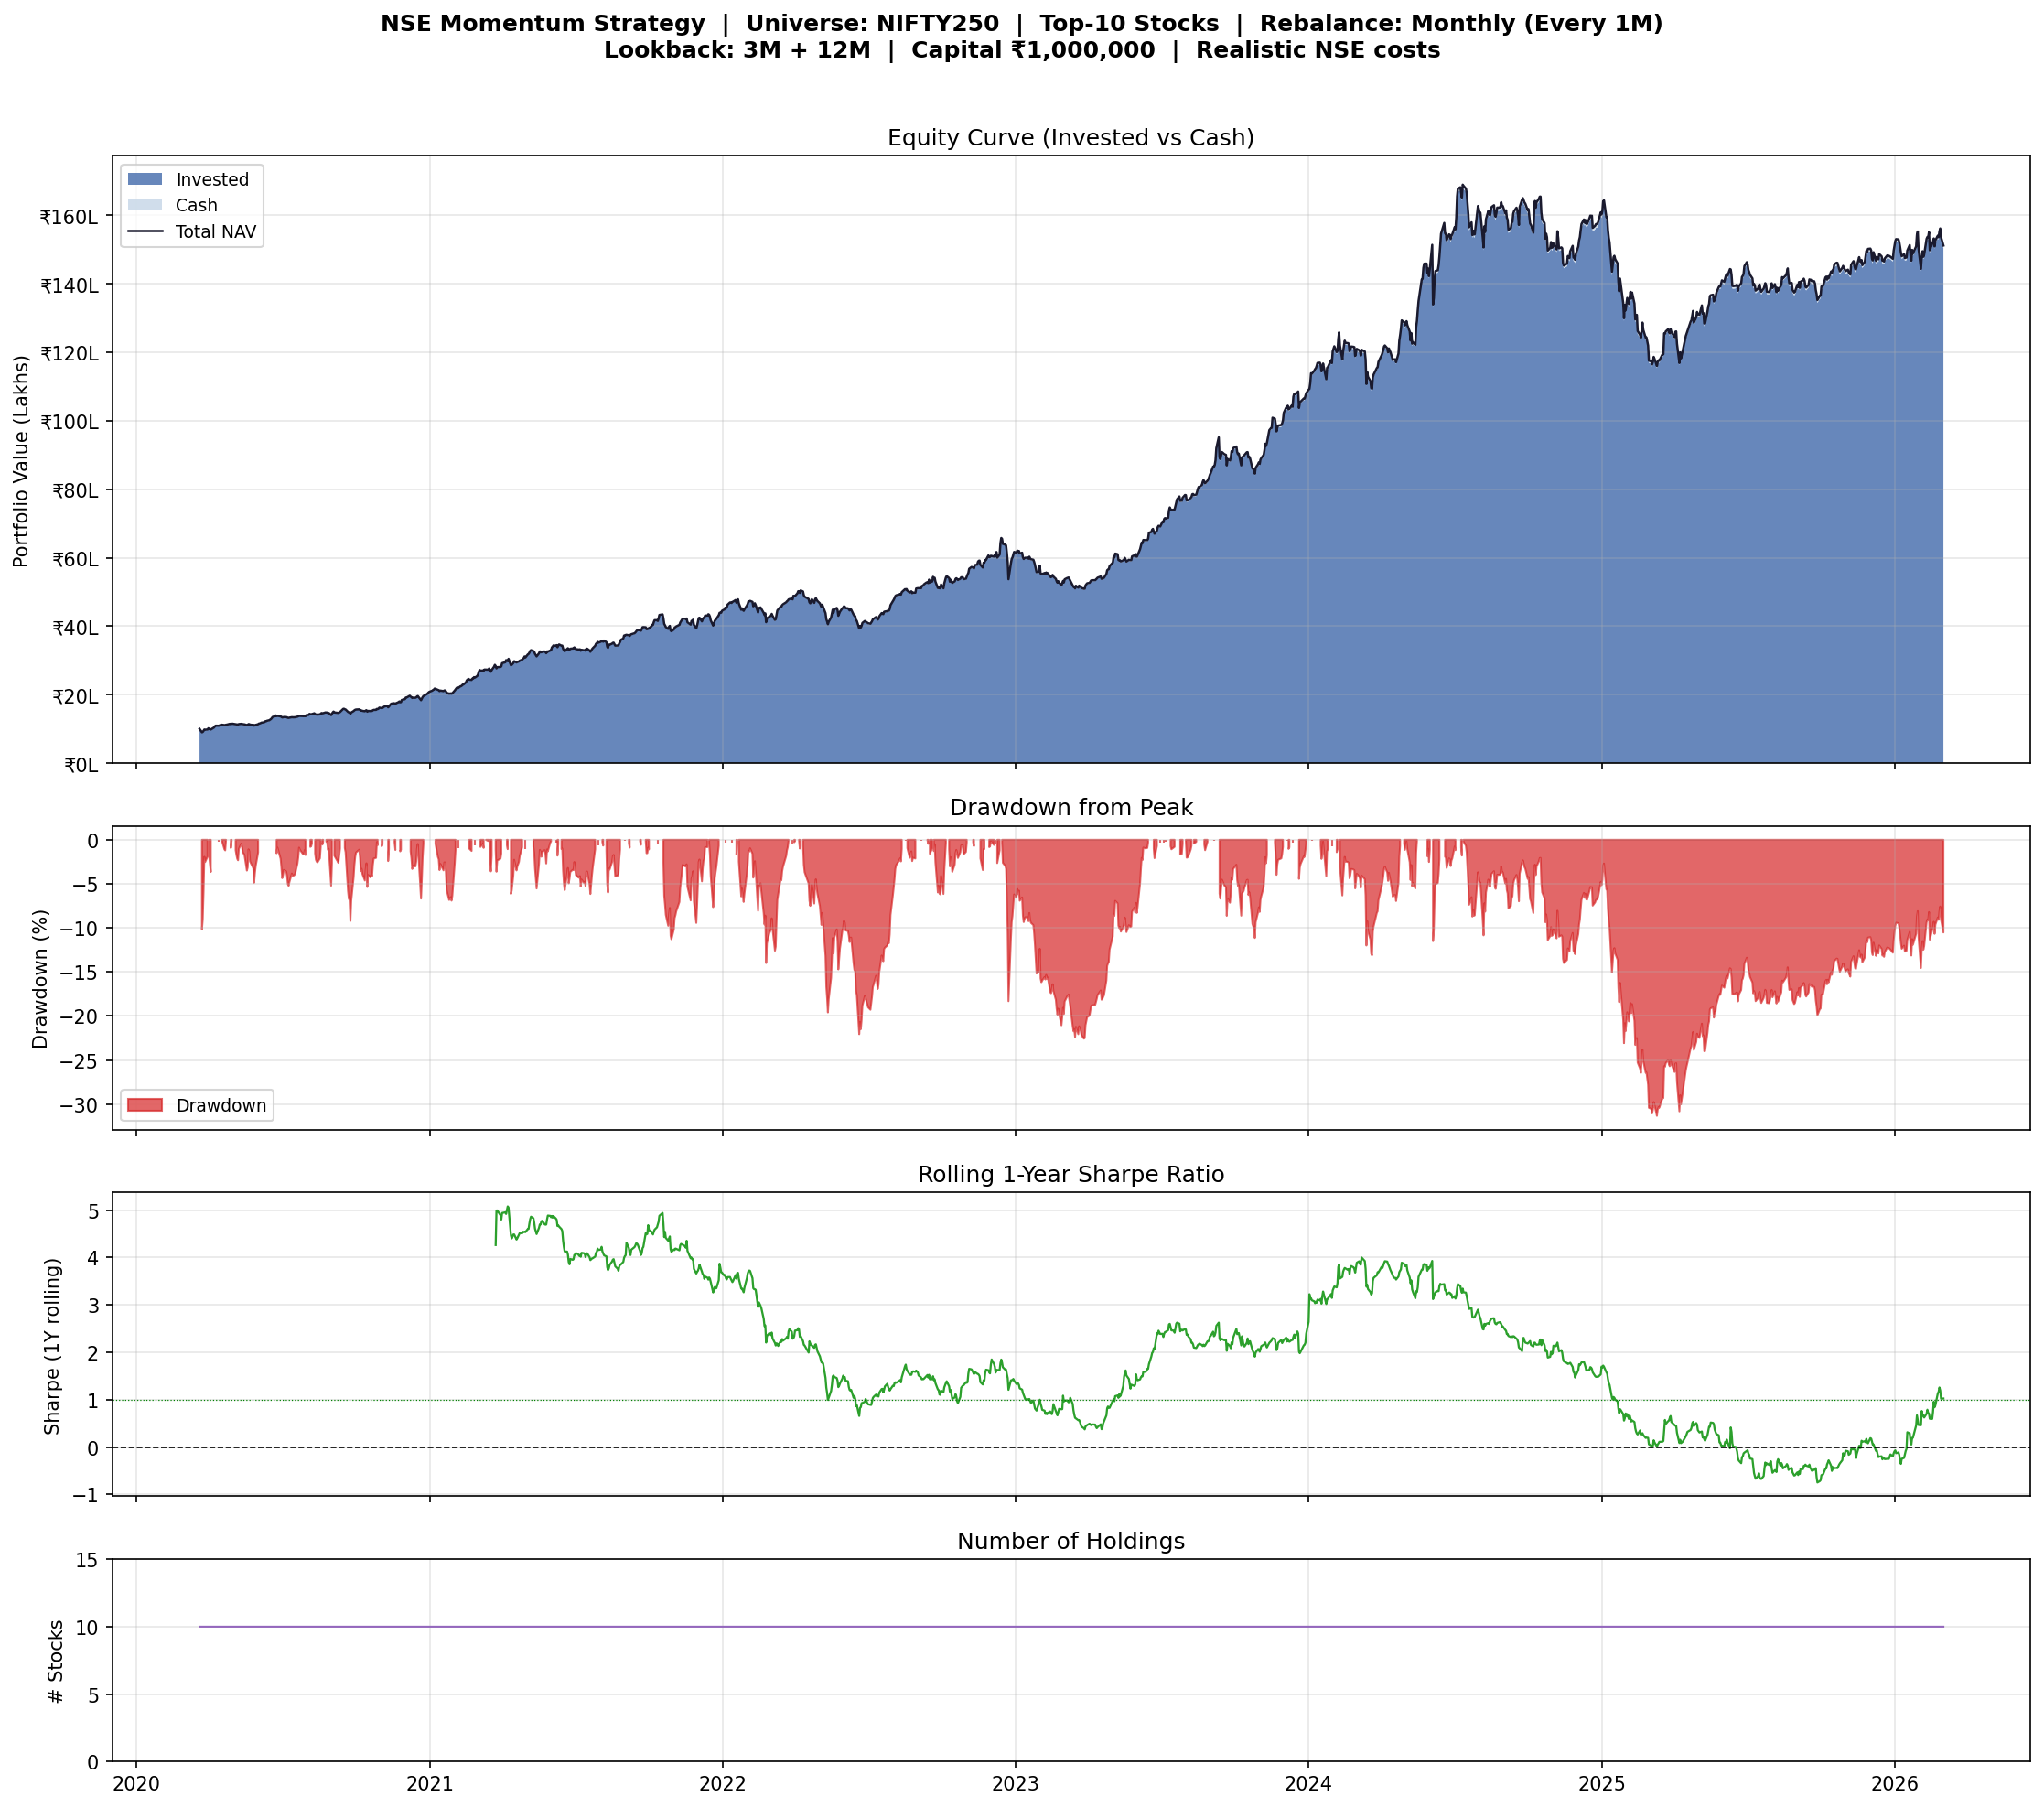
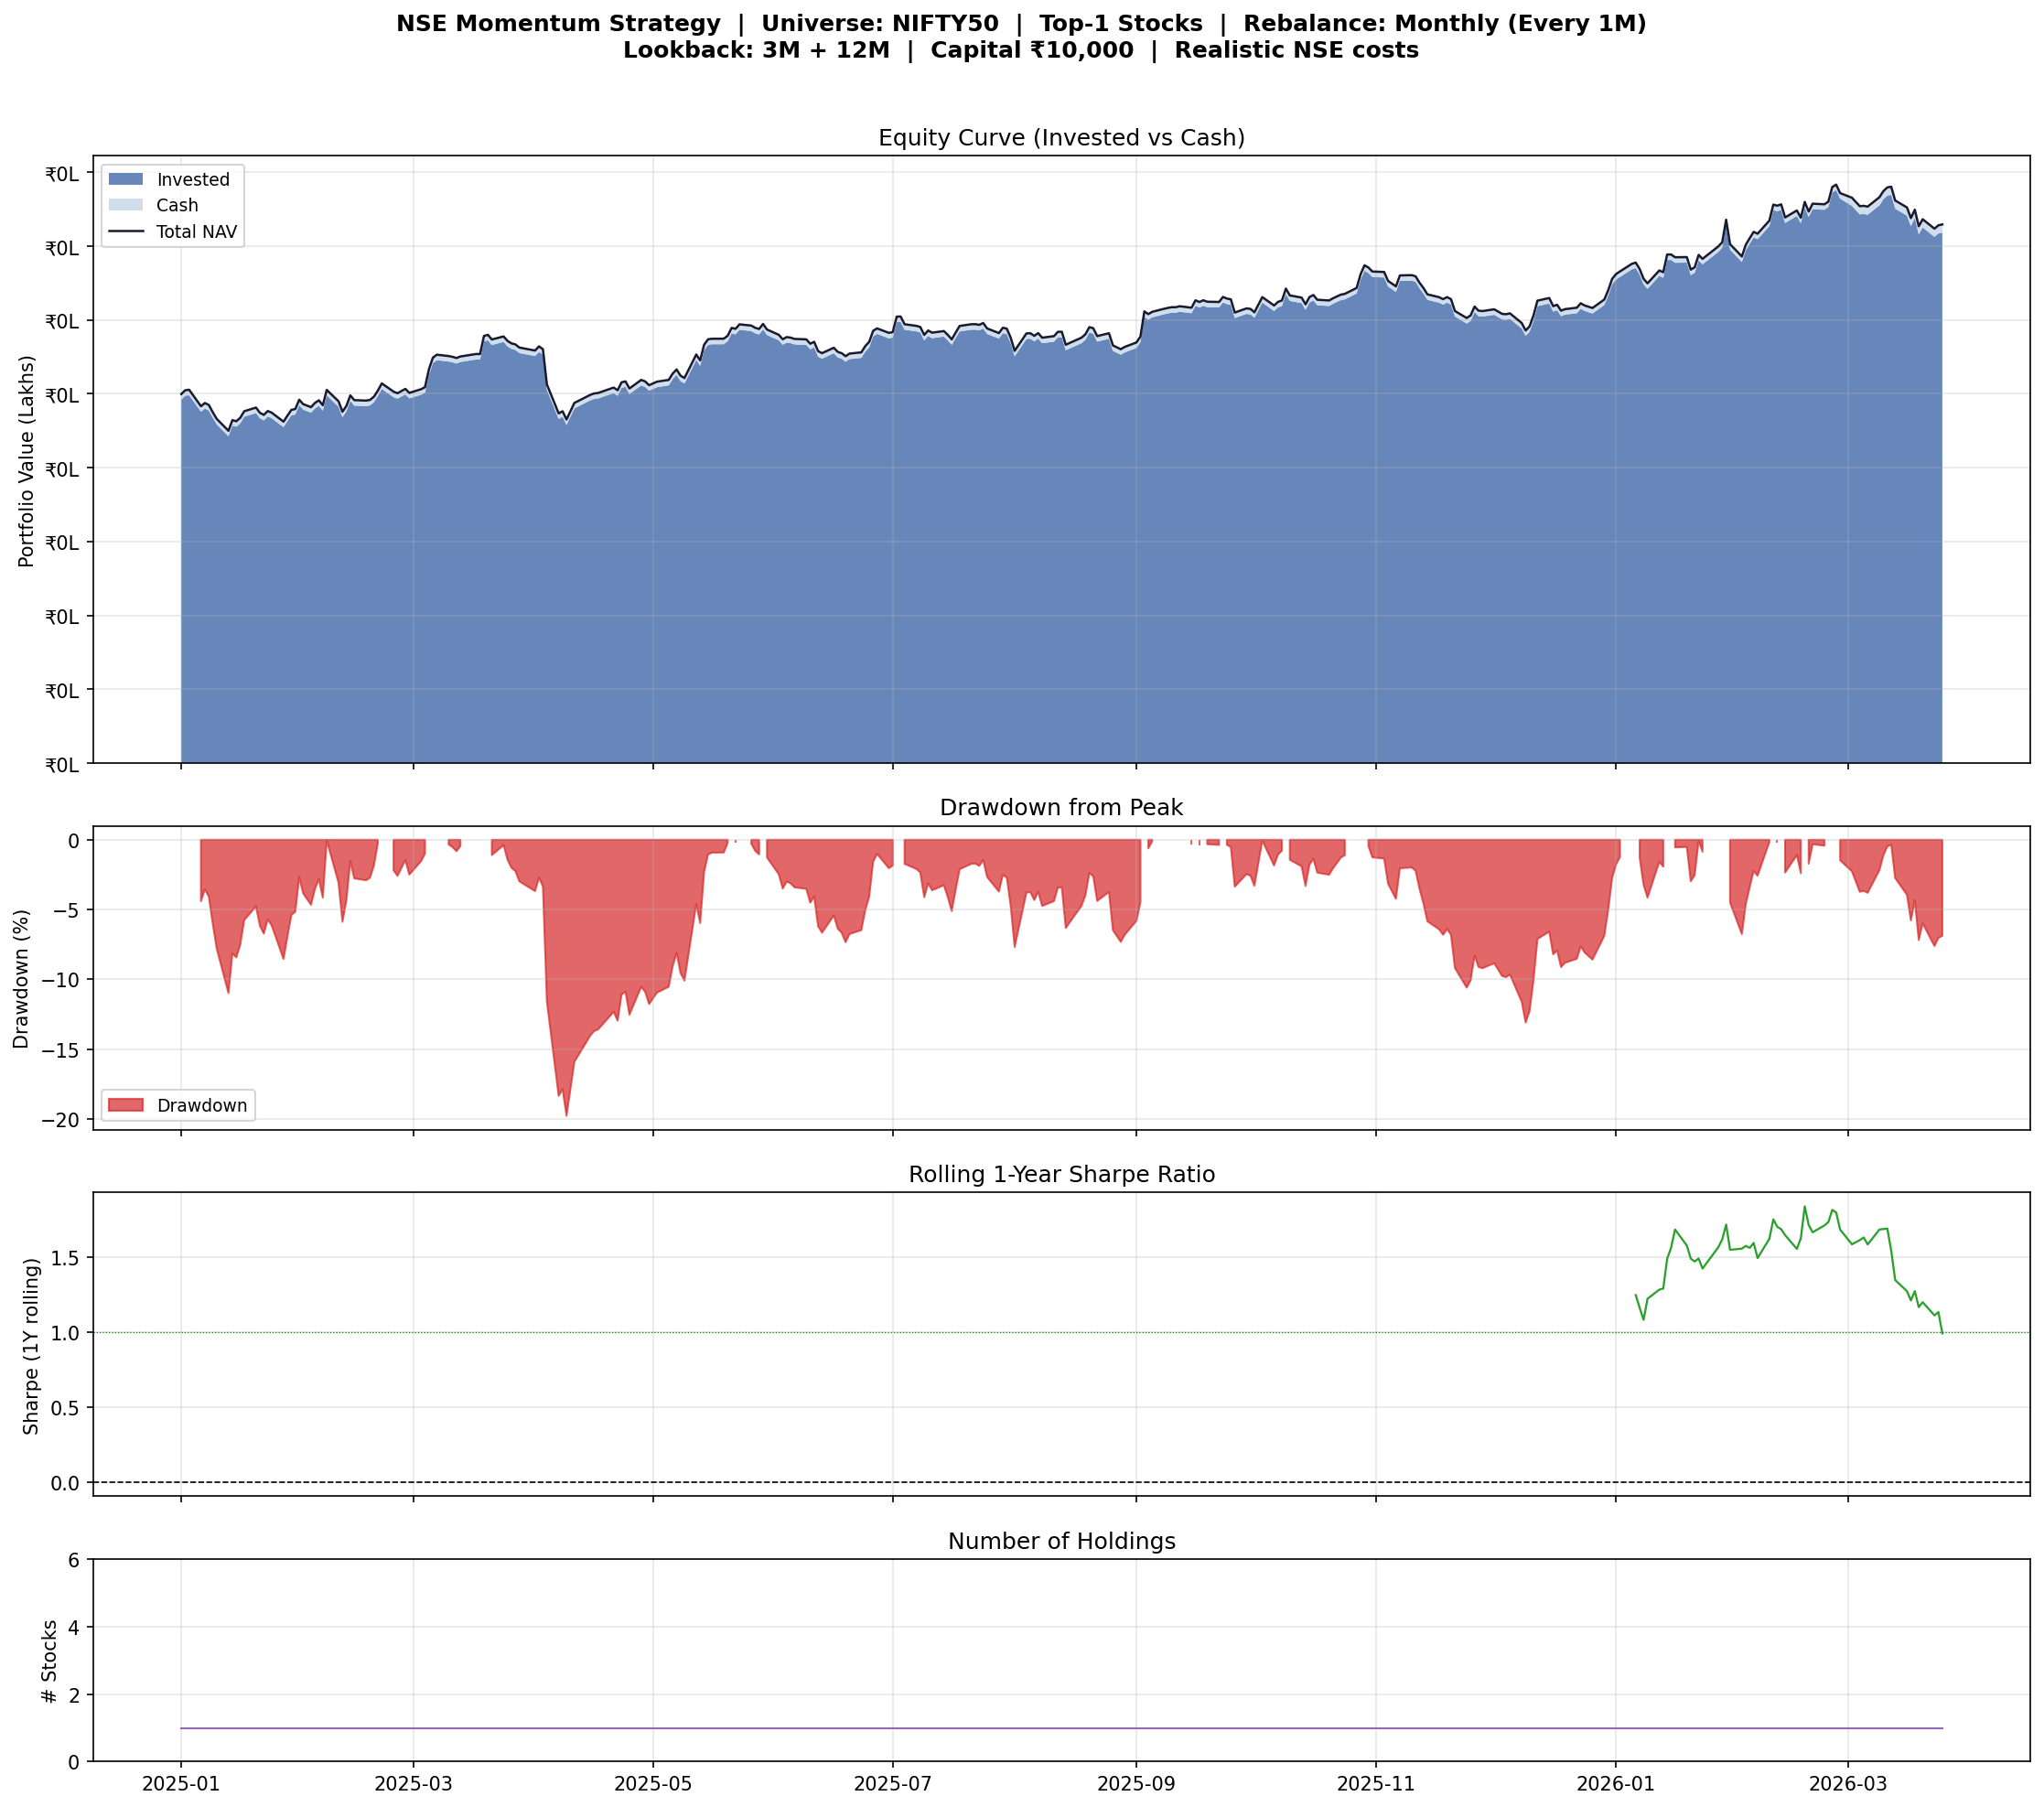
update nse market status

diff --git a/backend/scheduler.py b/backend/scheduler.py
@@ -65,28 +65,48 @@ def _is_market_hours() -> bool:
 
 def _is_nse_cm_open(fyers: fyersModel.FyersModel) -> bool:
     """
-    Check if NSE Capital Market (exchange=10, segment=10) is OPEN via
-    the Fyers market_status() API. This correctly handles NSE holidays
-    that a pure time-based check cannot detect.
-    Falls back to False on any error (safe default — don’t trade if unsure).
+    NSE Capital Market open check using Fyers market_status():
+    exchange=10, segment=10, market_type=NORMAL only.
     """
     try:
         resp = fyers.market_status()
-        if resp.get("s") != "ok":
+        if str(resp.get("s", "")).lower() != "ok":
             logger.warning(
-                "_is_nse_cm_open: market_status returned s=%s code=%s",
-                resp.get("s"), resp.get("code"),
+                "_is_nse_cm_open: market_status not ok s=%s code=%s",
+                resp.get("s"),
+                resp.get("code"),
             )
             return False
-        for seg in resp.get("marketStatus", []):
-            if int(seg.get("exchange", -1)) == 10 and int(seg.get("segment", -1)) == 10:
-                status = str(seg.get("status", "")).upper()
-                logger.info("_is_nse_cm_open: NSE Capital Market status=%s", status)
-                return status == "OPEN"
-        logger.warning("_is_nse_cm_open: NSE Capital Market segment not found in response")
+
+        rows = resp.get("marketStatus", []) or []
+        normal_row = None
+        candidates = []
+
+        for seg in rows:
+            ex = int(seg.get("exchange", -1))
+            sg = int(seg.get("segment", -1))
+            mt = str(seg.get("market_type", "")).upper()
+            st = str(seg.get("status", "")).upper()
+
+            if ex == 10 and sg == 10:
+                candidates.append(f"{mt}:{st}")
+                if mt == "NORMAL":
+                    normal_row = seg
+                    break
+
+        if normal_row:
+            status = str(normal_row.get("status", "")).upper()
+            logger.info("_is_nse_cm_open: NSE CM NORMAL status=%s", status)
+            return status == "OPEN"
+
+        logger.warning(
+            "_is_nse_cm_open: NSE CM NORMAL row not found; candidates=%s",
+            ",".join(candidates) if candidates else "none",
+        )
         return False
+
     except Exception:
-        logger.exception("_is_nse_cm_open: failed to check market status — assuming closed")
+        logger.exception("_is_nse_cm_open: failed to check market status; assuming closed")
         return False
 
 

diff --git a/data ingestion/momentum_backtest_v1.py b/data ingestion/momentum_backtest_v1.py
@@ -5,9 +5,9 @@ import matplotlib.ticker as mticker
 
 # ── CONFIG ──────────────────────────────────────────────────────
 CSV_PATH         = "nifty250_log_return_volatility.csv"
-UNIVERSE         = "nifty250"
-INITIAL_CAPITAL  = 1_000_000
-START_DATE       = "2020-03-20"   # ← replaces START_YEAR; format: "YYYY-MM-DD"
+UNIVERSE         = "nifty50"
+INITIAL_CAPITAL  = 10_000
+START_DATE       = "2025-01-01"   # ← replaces START_YEAR; format: "YYYY-MM-DD"
 
 # ── REBALANCE FREQUENCY ─────────────────────────────────────────
 # Set REBALANCE_FREQ to either:
@@ -25,9 +25,9 @@ LOOKBACK_2       = 12
 SKIP_MONTHS      = 0
 WEIGHT_1         = 0.5
 WEIGHT_2         = 0.5
-N_STOCKS         = 10
+N_STOCKS         = 1
 MIN_PRICE        = 1.0
-MAX_PRICE        = 100_000
+MAX_PRICE        = 200
 CASH_BUFFER      = 0.005
 
 BROKERAGE        = 0.0003
@@ -81,6 +81,7 @@ def get_rebalance_dates(all_dates):
         if idx < len(trading_days):
             rebalance_dates.add(trading_days[idx])
 
+    print(rebalance_dates)
     return rebalance_dates
 
 def compute_momentum_scores(df):